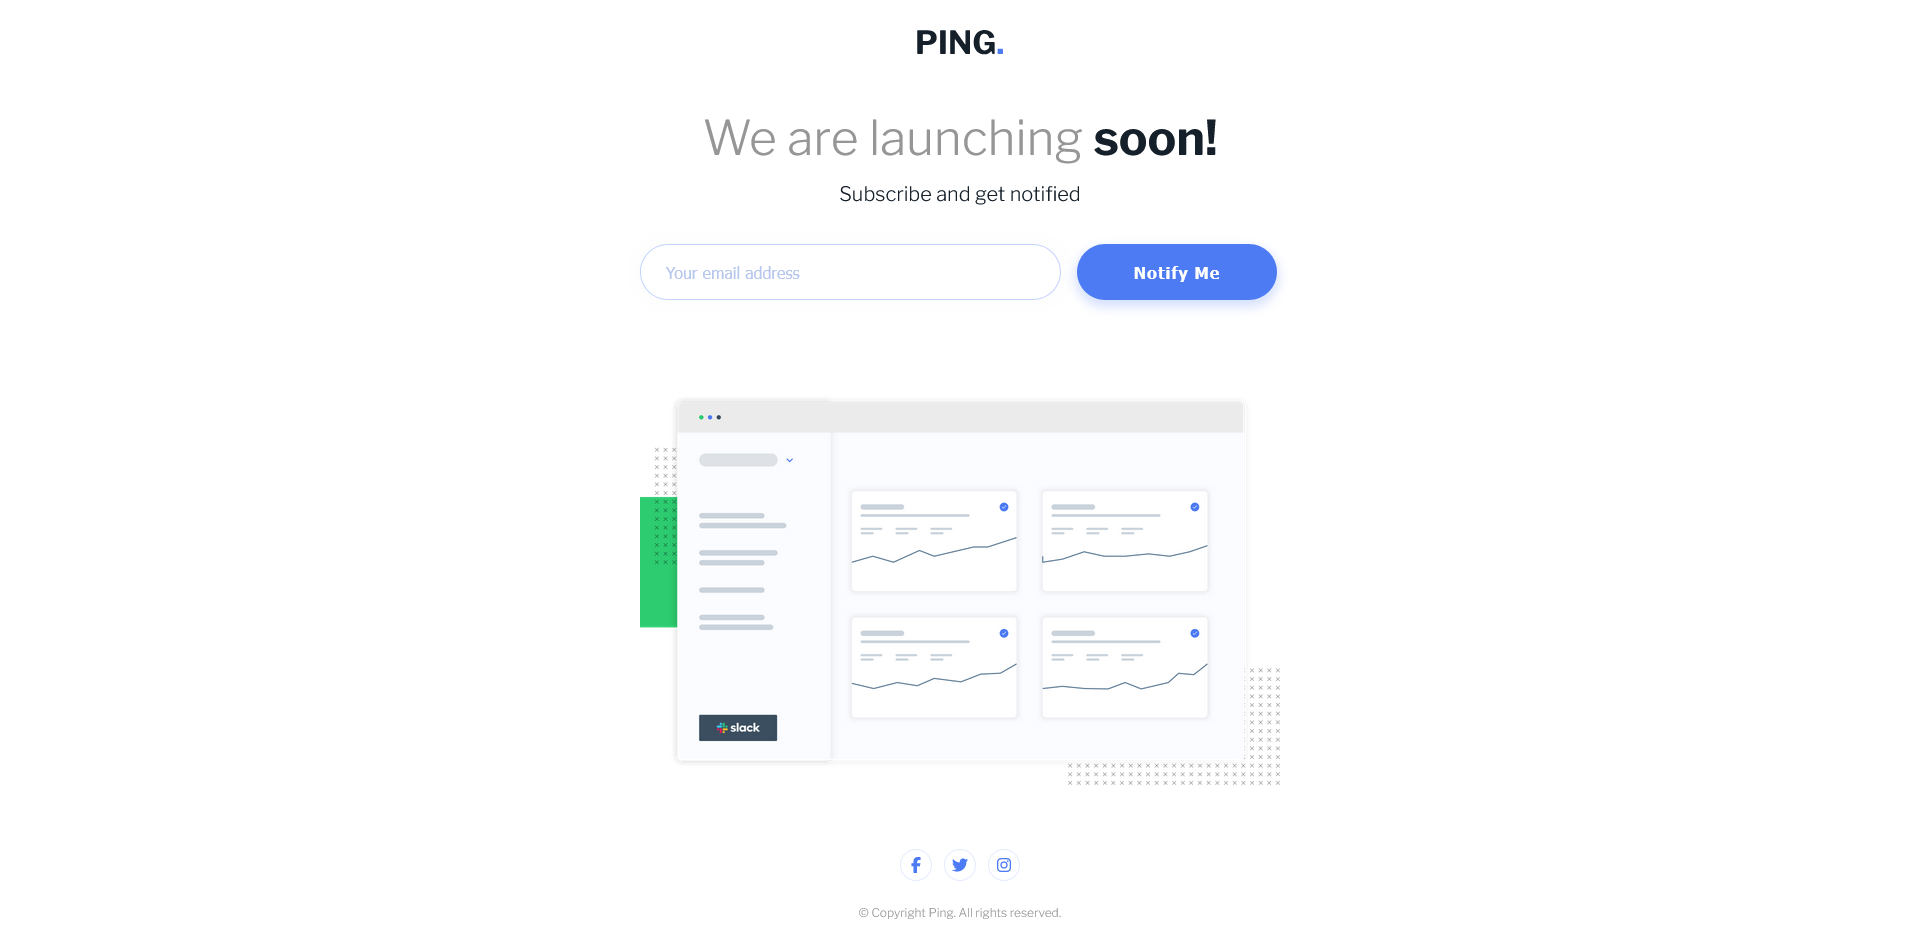
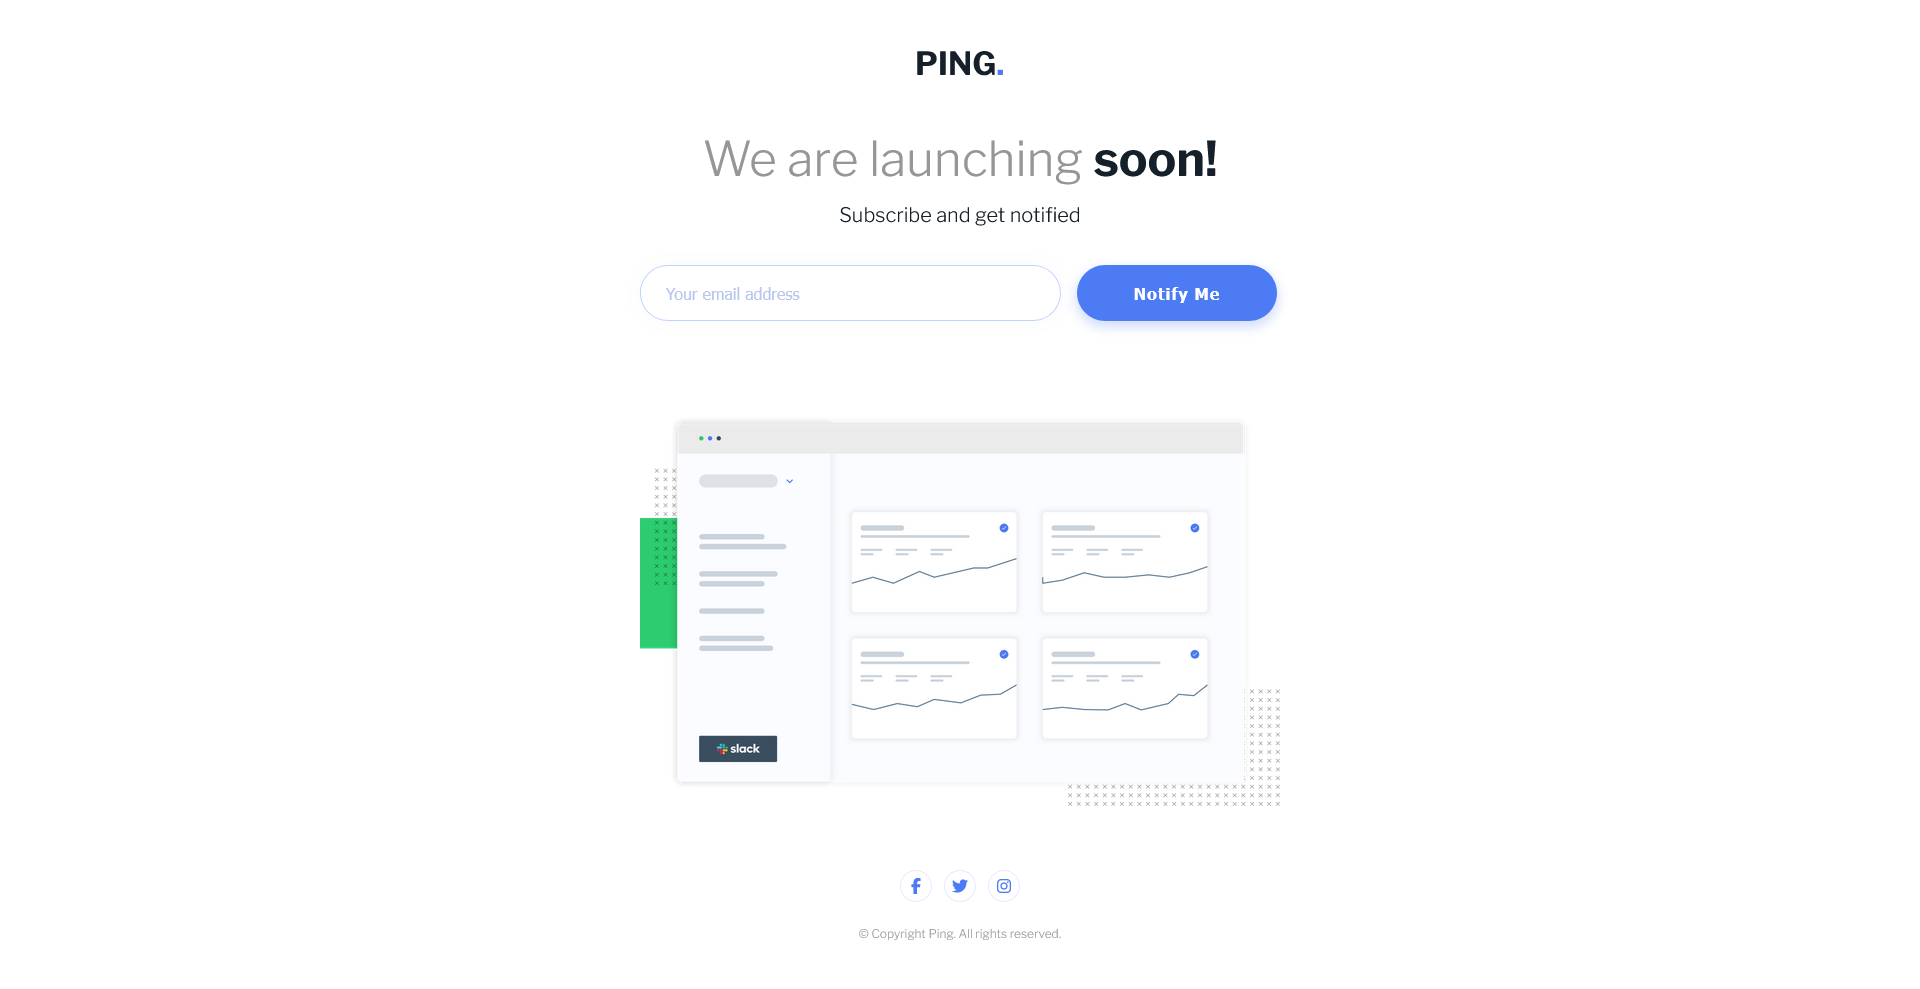
update new screenshot

diff --git a/css/style.css b/css/style.css
@@ -94,7 +94,7 @@ body {
   min-height: 100vh;
   font-family: "Libre Franklin", sans-serif;
   font-weight: normal;
-  padding: 1rem 0;
+  padding: 5rem 0;
   overflow-y: auto;
 }
 
